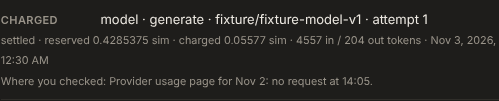
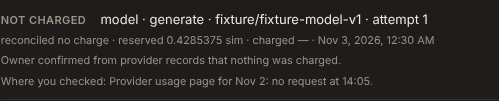
PR #122 review fixes: old outcomes parse, reconcile answer reads back, walk row
- L-1: reconcile_evidence defaults to null so call outcomes saved before it still
  parse when a build is packaged; test parses an attempt without the key.
- N-1: reconcile returns the stored row, not this request's evidence.
- N-2: walk injects evidence into a row shaped as a no-charge reconcile.

Claude-Session: https://claude.ai/code/session_01JTbuZrF5EPq8R17m9fFFg7

Changed region(s): [[0.0, 0.3564, 0.992, 0.4752], [0.0, 0.5347, 0.6914, 0.6535], [0.0, 0.1485, 0.1804, 0.2376]]

diff --git a/tests/src/broker.test.ts b/tests/src/broker.test.ts
@@ -4,6 +4,7 @@ import { randomUUID } from 'node:crypto';
 import { readFileSync } from 'node:fs';
 import { setTimeout as sleep } from 'node:timers/promises';
 import {
+  BrokerCallResultSchema,
   ContractError,
   type AutonomyMode,
   type BrokerCallRequest,
@@ -700,6 +701,18 @@ test('rate limits release and retry; malformed output is charged; unknown outcom
   for (const evidence of (await byId(agent)).values())
     assert.equal(evidence, null);
   assert.equal(kept.at(-1)?.reservation.reconcile_evidence, null);
+  // A call outcome saved before reconcile_evidence existed still parses (PR #122 review L-1:
+  // the artifact packager re-reads call-N-outcome.json from disk).
+  const older = JSON.parse(JSON.stringify(retried)) as {
+    attempts: Record<string, unknown>[];
+  };
+  for (const a of older.attempts) delete a.reconcile_evidence;
+  assert.deepEqual(
+    BrokerCallResultSchema.parse(older).attempts.map(
+      (a) => a.reconcile_evidence,
+    ),
+    [null, null],
+  );
   await rejects(
     'INVALID_TRANSITION',
     s.store.reconcile(owner, s.ws.id, reset.attempts[0]!.id, {

diff --git a/packages/db/src/budget-store.ts b/packages/db/src/budget-store.ts
@@ -1652,8 +1652,14 @@ export class BudgetStore extends OversightStore {
               evidence: req.evidence,
             },
           });
-    // Only the owner reconciles, so the answer carries the evidence just stored.
-    return { ...done.reservation, reconcile_evidence: req.evidence };
+    // Only the owner reconciles, so the answer carries the stored evidence. It is read back
+    // rather than taken from this request: a reconcile that lost a race gets the winner's
+    // outcome with the winner's evidence (PR #122 review N-1).
+    const { rows } = await this.pool.query(
+      `${RESERVATION_SELECT} where r.id = $1`,
+      [done.reservation.id],
+    );
+    return toReservation(rows[0] as Row, true);
   }
   /**
    * Crash recovery: an attempt still in flight past its deadline plus the late-result window

diff --git a/packages/contracts/src/budget.ts b/packages/contracts/src/budget.ts
@@ -234,7 +234,9 @@ export const ReservationSchema = z.strictObject({
    * Where the owner checked when reconciling an unknown outcome (PR #116 N-3). Shown only to
    * the owner on the reservations list; null everywhere else, including broker results.
    */
-  reconcile_evidence: z.string().max(1200).nullable(),
+  // Defaults to null so outcome files written before the field existed still parse
+  // (PR #122 review L-1: the artifact packager re-reads call outcomes from disk).
+  reconcile_evidence: z.string().max(1200).nullable().default(null),
   fixture: z.boolean(),
   created_at: timestamp,
   finished_at: timestamp.nullable(),

diff --git a/tracking/BUILD_STATUS.md b/tracking/BUILD_STATUS.md
@@ -12,6 +12,14 @@ Checks run: new assertions in `tests/src/broker.test.ts` (owner sees both reconc
 
 Limits: no migration, no ADR. Tracking evidence JSON from older seeds still shows the old seed-selection workspace name.
 
+Review fixes (fresh review `/mnt/project-files/reviews/PR122_SMALLER_AUDIT_ITEMS_REVIEW_2026-11-03.md`: no Medium or above; Jordan asked for all Lows and nits):
+
+- L-1: `reconcile_evidence` defaults to null, so call outcome files saved before the field existed still parse, and an older metered build can still be packaged. `broker.test.ts` parses a broker result whose attempts lack the key; it fails without the default.
+- N-1: the reconcile answer reads the stored row back instead of overlaying the request's evidence, so a reconcile that lost a race shows the winner's outcome with the winner's evidence.
+- N-2: the walk's Budgets step now shapes the injected row as a no-charge reconcile (released, `reconciled_no_charge`), so the screenshot no longer shows evidence on a plainly settled call.
+
+Checks: `pnpm test` on PostgreSQL 16: 693 tests, 661 pass, 27 skipped, 5 fail (known PowerShell wrapper); typecheck and Prettier pass; walk re-run.
+
 ## Full audit and fixes — November 2, 2026
 
 Audit of main at `85ff0d5` (report `docs/FULL_AUDIT_2026-11-02.md`, also `/mnt/project-files/reviews/FULL_AUDIT_2026-11-02.md`): no High, one Medium (fixed), PR #117's last two commits checked with no findings.

diff --git a/tracking/SESSION_HANDOFF.md b/tracking/SESSION_HANDOFF.md
@@ -12,6 +12,14 @@ Checks run: new assertions in `tests/src/broker.test.ts` (owner sees both reconc
 
 Limits: no migration, no ADR. Tracking evidence JSON from older seeds still shows the old seed-selection workspace name.
 
+Review fixes (fresh review `/mnt/project-files/reviews/PR122_SMALLER_AUDIT_ITEMS_REVIEW_2026-11-03.md`: no Medium or above; Jordan asked for all Lows and nits):
+
+- L-1: `reconcile_evidence` defaults to null, so call outcome files saved before the field existed still parse, and an older metered build can still be packaged. `broker.test.ts` parses a broker result whose attempts lack the key; it fails without the default.
+- N-1: the reconcile answer reads the stored row back instead of overlaying the request's evidence, so a reconcile that lost a race shows the winner's outcome with the winner's evidence.
+- N-2: the walk's Budgets step now shapes the injected row as a no-charge reconcile (released, `reconciled_no_charge`), so the screenshot no longer shows evidence on a plainly settled call.
+
+Checks: `pnpm test` on PostgreSQL 16: 693 tests, 661 pass, 27 skipped, 5 fail (known PowerShell wrapper); typecheck and Prettier pass; walk re-run.
+
 ## Full audit and fixes — November 2, 2026
 
 Audit of main at `85ff0d5` (report `docs/FULL_AUDIT_2026-11-02.md`, also `/mnt/project-files/reviews/FULL_AUDIT_2026-11-02.md`): no High, one Medium (fixed), PR #117's last two commits checked with no findings.
